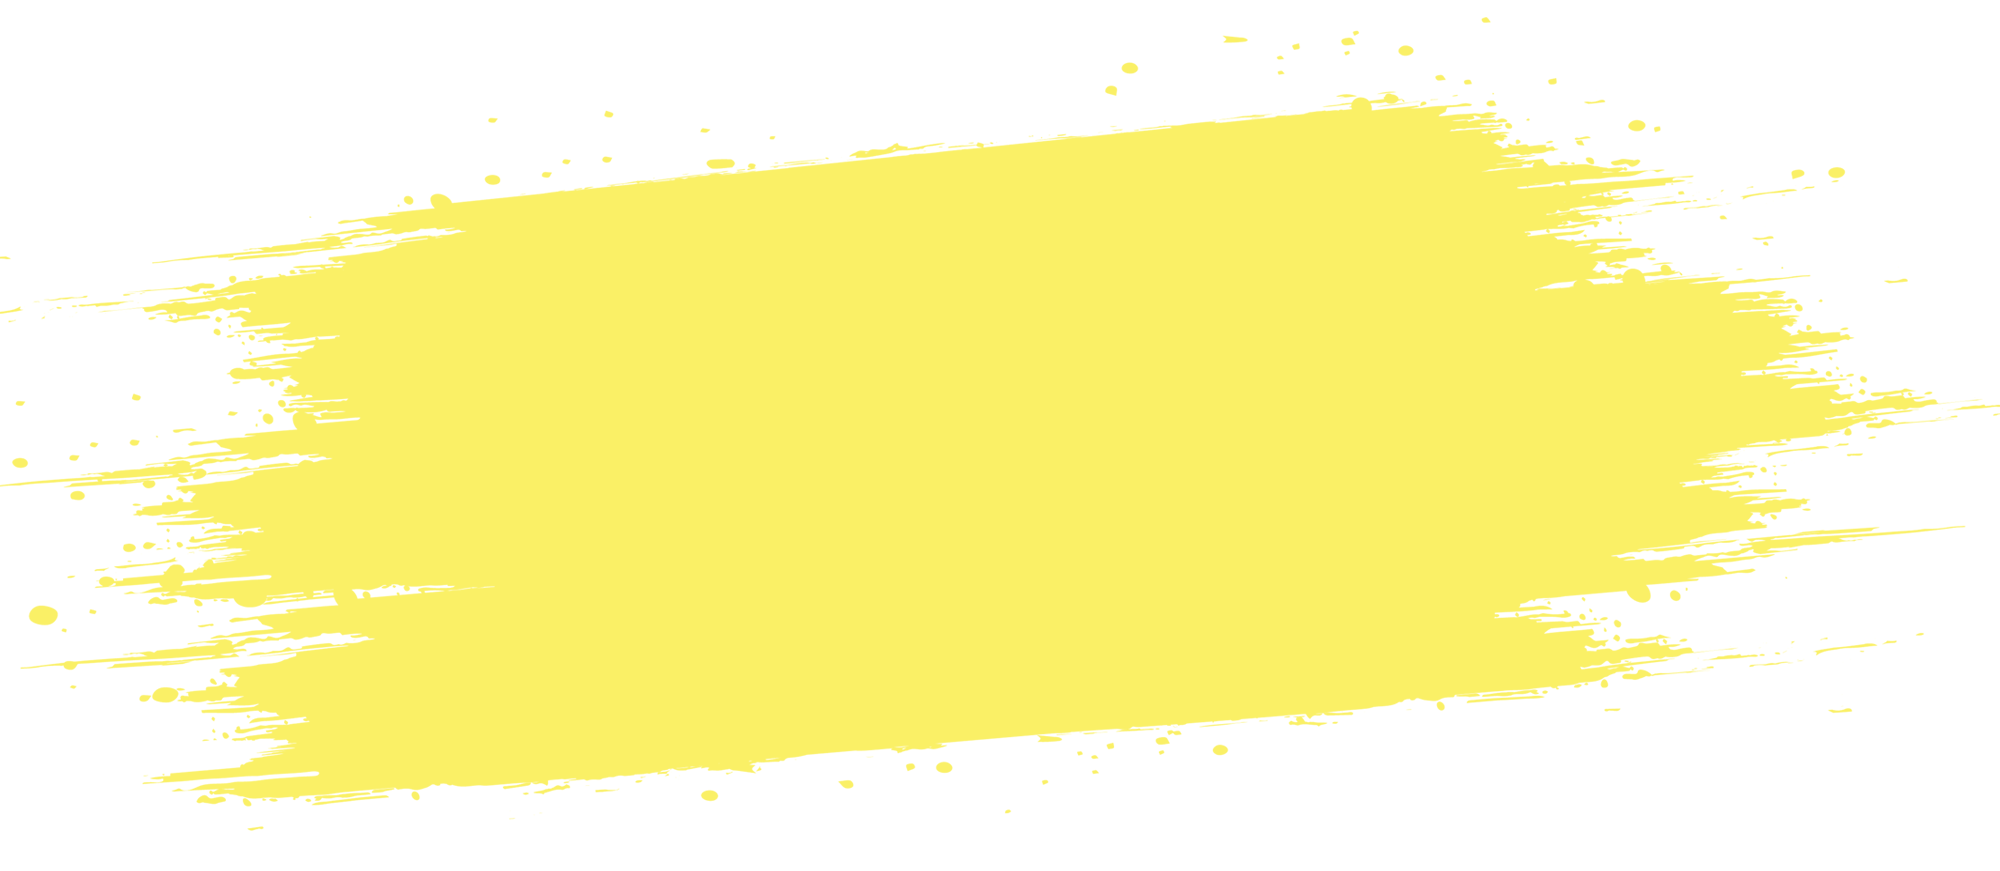
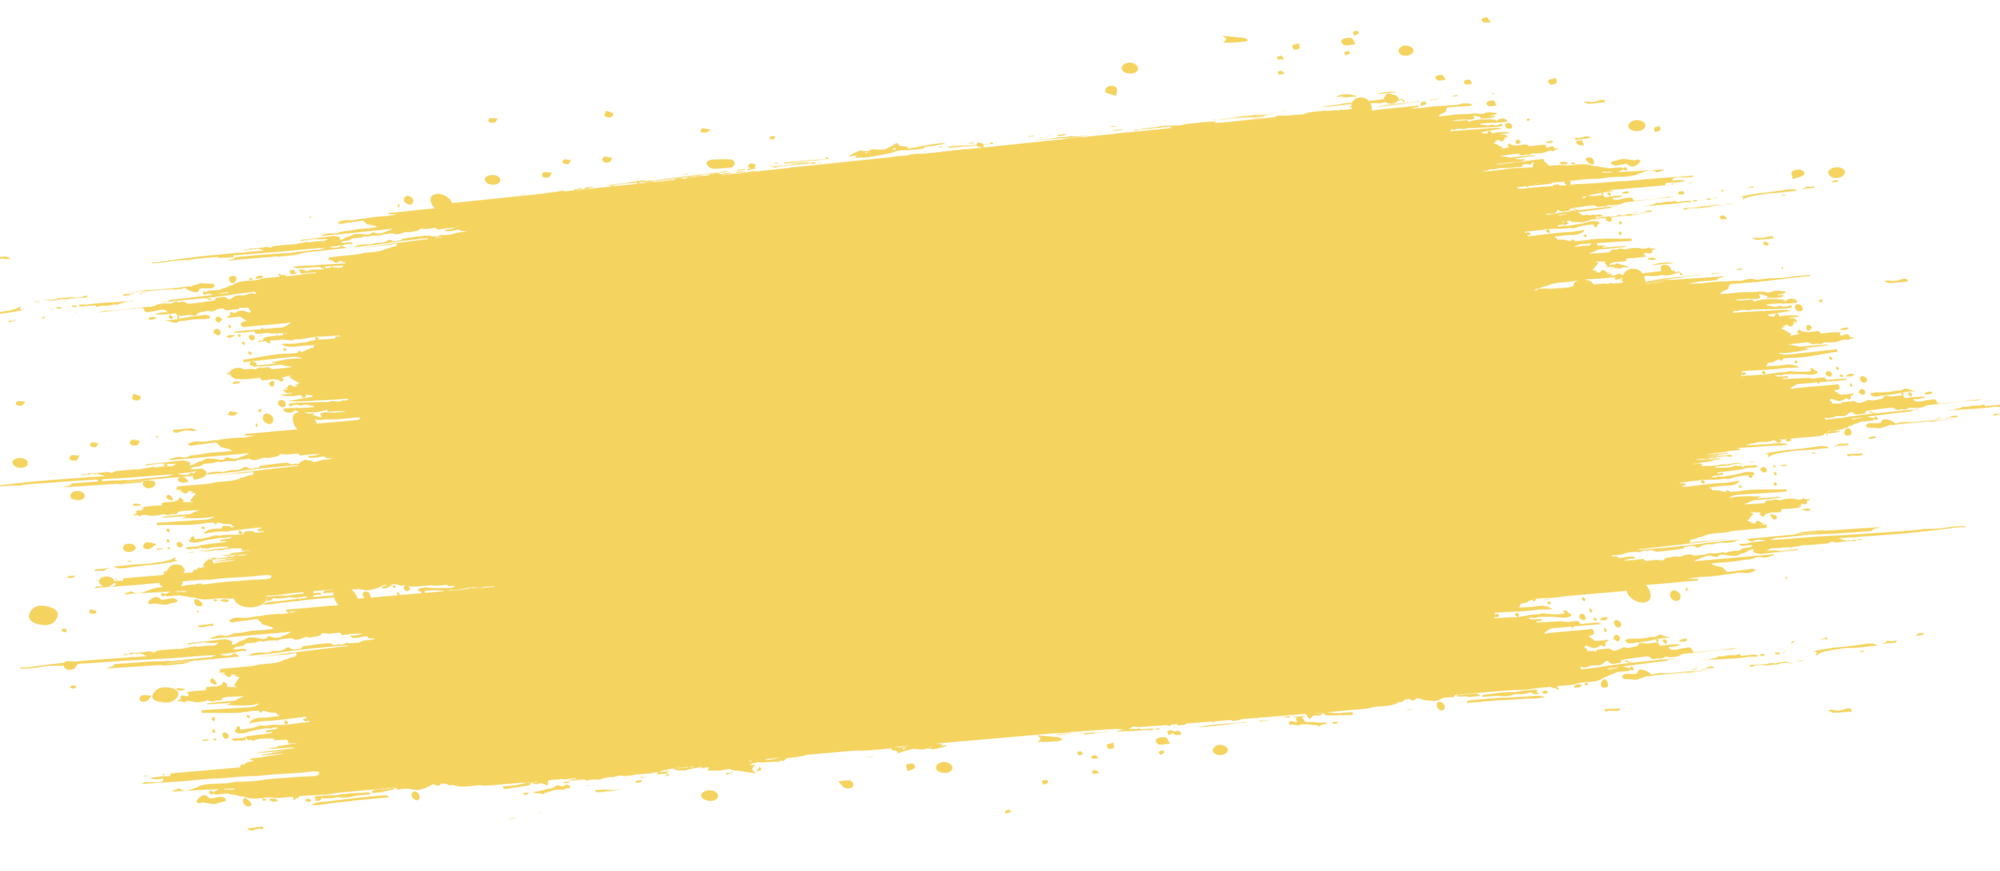
Change yellow color

diff --git a/src/Components/PhotoGallery/CategorySection2.module.css b/src/Components/PhotoGallery/CategorySection2.module.css
@@ -63,7 +63,8 @@
 }
 
 .page-title-sutemenyek{
-    background-color: #faf066;
+    background-color: #f4d35e;
+    /*background-color: #faf066;*/
     color: #473939;
 }
 
